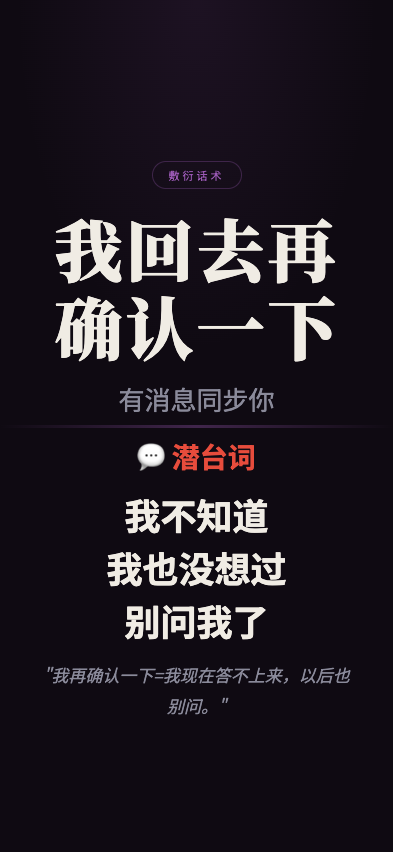
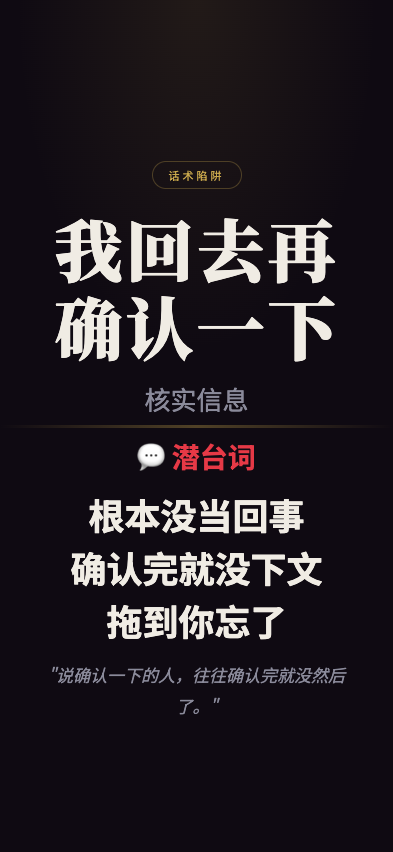
feat: 职场生存法则 screenshot - wohuiquzaiquerenyixia

Changed region(s): [[0.1221, 0.5798, 0.8855, 0.8545], [0.3053, 0.4577, 0.7023, 0.5188], [0.4275, 0.1831, 0.5802, 0.2136]]

diff --git a/wuliao-tools/tools/biz-speak/scenes/wohuiquzaiquerenyixia.html b/wuliao-tools/tools/biz-speak/scenes/wohuiquzaiquerenyixia.html
@@ -10,8 +10,8 @@
     --bg: #0f0a12;
     --text: #f0ece4;
     --text-dim: #8a8a9a;
-    --gold: #9b59b6;
-    --red: #e74c3c;
+    --gold: #c9a84c;
+    --red: #e63946;
   }
   * { margin:0; padding:0; box-sizing:border-box; }
   html, body { width:100%; height:100%; overflow:hidden; }
@@ -24,11 +24,11 @@
   }
   body::before {
     content:''; position:absolute; top:0; left:0; right:0; height:45%;
-    background:radial-gradient(ellipse at 50% 0%, rgba(155,89,182,0.1) 0%, transparent 65%);
+    background:radial-gradient(ellipse at 50% 0%, rgba(201,168,76,0.1) 0%, transparent 65%);
     pointer-events:none; z-index:0;
   }
   .top { flex:1; display:flex; flex-direction:column; align-items:center; justify-content:flex-end; padding:4px 28px 8px; position:relative; z-index:1; }
-  .tag { font-size:11px; letter-spacing:3px; color:var(--gold); border:1px solid rgba(155,89,182,0.3); padding:5px 16px; border-radius:50px; margin-bottom:20px; }
+  .tag { font-size:11px; letter-spacing:3px; color:var(--gold); border:1px solid rgba(201,168,76,0.3); padding:5px 16px; border-radius:50px; margin-bottom:20px; }
   .main-title { font-family:'Noto Serif SC'; font-size:68px; font-weight:900; text-align:center; line-height:1.15; letter-spacing:3px; min-width:0; overflow-wrap:break-word; max-width:92%; }
   .sub-title { font-size:26px; color:var(--text-dim); text-align:center; margin-top:14px; }
   .divider { width:100%; height:3px; background:linear-gradient(90deg,transparent,var(--gold),transparent); opacity:0.35; flex-shrink:0; position:relative; z-index:1; }
@@ -41,19 +41,19 @@
 </head>
 <body>
   <div class="top">
-    <div class="tag">敷衍话术</div>
+    <div class="tag">话术陷阱</div>
     <div class="main-title">我回去再确认一下</div>
-    <div class="sub-title">有消息同步你</div>
+    <div class="sub-title">核实信息</div>
   </div>
   <div class="divider"></div>
   <div class="bottom">
     <div class="truth-label">💬 潜台词</div>
     <div class="truth-lines">
-      <div class="truth-line">我不知道</div>
-      <div class="truth-line">我也没想过</div>
-      <div class="truth-line">别问我了</div>
+      <div class="truth-line">根本没当回事</div>
+      <div class="truth-line">确认完就没下文</div>
+      <div class="truth-line">拖到你忘了</div>
     </div>
-    <div class="quote">"我再确认一下=我现在答不上来，以后也别问。"</div>
+    <div class="quote">"说确认一下的人，往往确认完就没然后了。"</div>
   </div>
 </body>
 </html>
